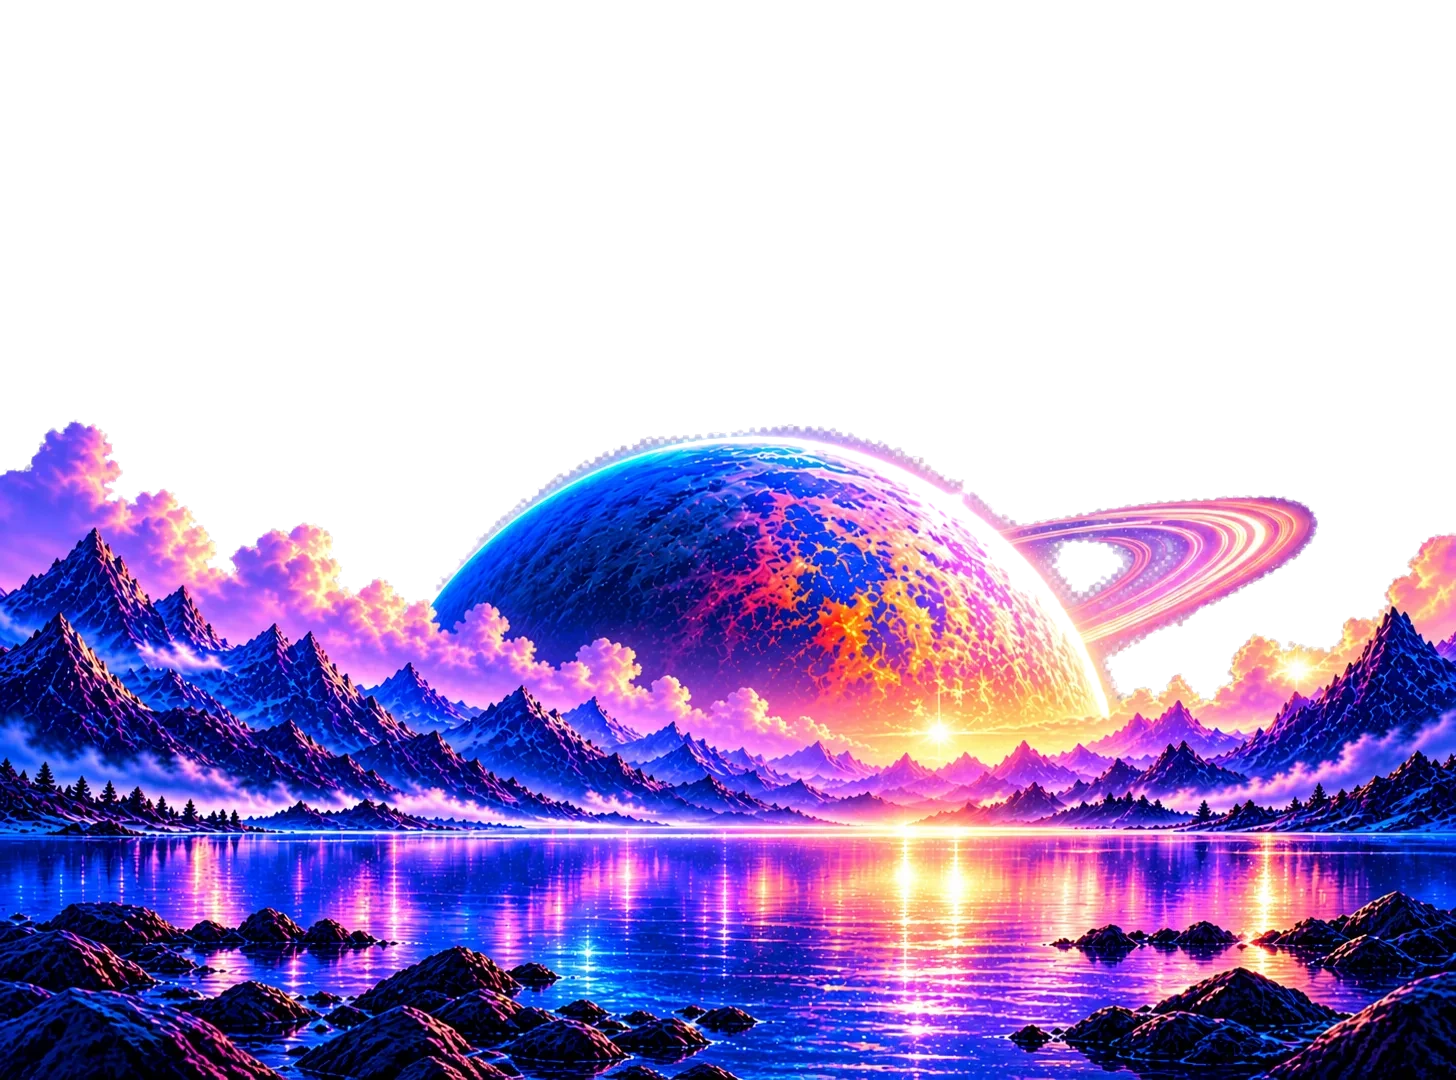
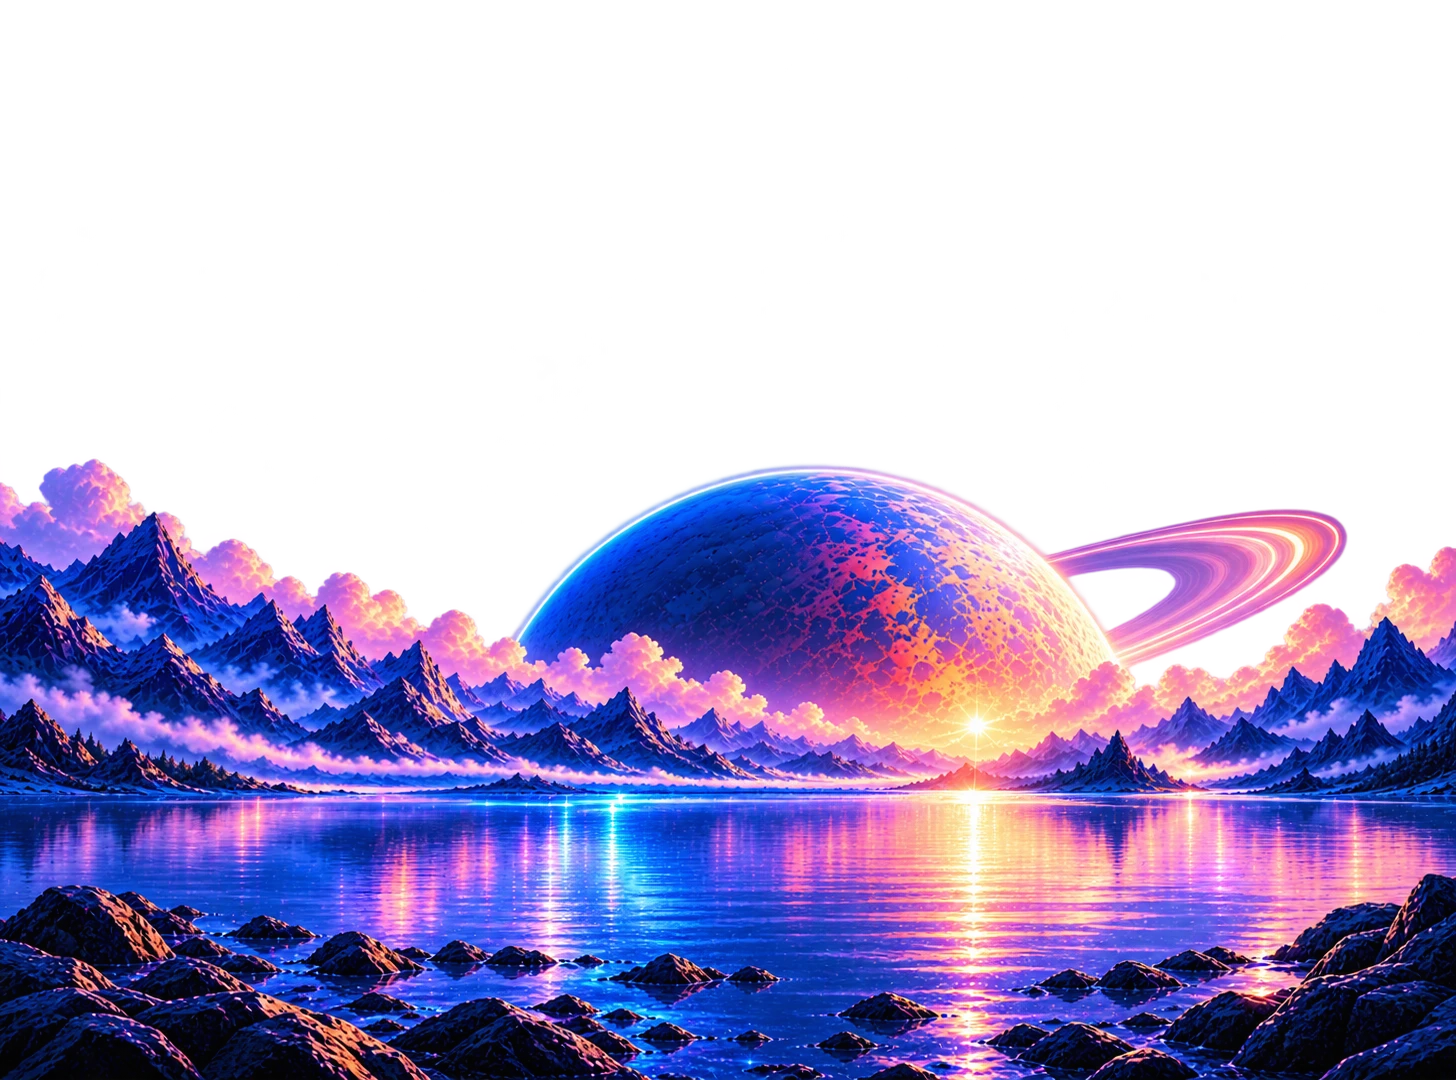
Dashboard Space: the user's new sky and transparent planet overlay
Sky covers the menu from the top; the overlay (real alpha, no keying)
is placed by its own size so the planet's top meets the banner's top.
Pixel background-position (St has no "center top").

diff --git a/lib/menu/layouts.js b/lib/menu/layouts.js
@@ -1021,8 +1021,8 @@ const RECENT_COLUMNS = 4;
 const FROST_BLUR = 14; // blur radius of the picture behind the cards
 const PINNED_ICON = 46;
 const SPACE_SCALE = 1.0; // Space picture width / menu width
-const SPACE_HORIZON = 0.77; // height of the lake line in the Space pictures
-const SPACE_PLANET = 0.40; // height of the planet's top in the overlay
+const SPACE_HORIZON = 0.73; // height of the lake line in the overlay
+const SPACE_PLANET = 0.43; // height of the planet's top in the overlay
 const SPACE_PLANET_GAP = 6; // planet top below the banner's top edge
 const SPACE_TOP = 70; // picture top before the banner is placed
 const HERO_FOCUS = [0.5, 0.58]; // part of the picture the banner centres on
@@ -1710,6 +1710,7 @@ class DashboardLayout extends BaseLayout {
             return;
         this._pictureUri = picture ? GLib.filename_to_uri(picture, null) : null;
         this._overlayUri = space ? GLib.filename_to_uri(D.spaceOverlay(this.ctx.ext.path), null) : null;
+        this._overlaySize = space ? D.pictureSize(D.spaceOverlay(this.ctx.ext.path)) : null;
         this._pictureSize = picture ? D.pictureSize(picture) : null;
         this._syncPicture();
     }
@@ -1817,12 +1818,21 @@ class DashboardLayout extends BaseLayout {
     _placeSpace() {
         // The menu width (the picture's own width is not final before layout).
         const pw = this.settings.get_int('menu-width') || DashboardLayout.size[0];
+        const radius = `border-radius: ${this._radius()};`;
+        // Sky: covers the whole menu, from the top, centred (St takes no "center top").
+        const [sw, sh] = this._pictureSize;
+        const skyScale = Math.max(pw / sw, MENU_HEIGHT / sh);
+        const [kw, kh] = [Math.ceil(sw * skyScale), Math.ceil(sh * skyScale)];
+        this._frost.set_style(`background-image: url("${this._pictureUri}"); background-size: ${kw}px ${kh}px; ` +
+            `background-position: ${Math.round((pw - kw) / 2)}px 0px; ${radius}`);
+        if (!this._overlay)
+            return;
+        // Overlay, as in the design: the planet's top touches the banner's
+        // top edge, so its dome fills the banner, the side mountains rise
+        // behind the last pinned row and the lake runs behind the action row.
+        const size = this._overlaySize ?? this._pictureSize;
         const w = Math.round(pw * SPACE_SCALE);
-        const h = Math.round(w * this._pictureSize[1] / this._pictureSize[0]);
-        // As in the design: the planet's top (in the overlay) touches the
-        // banner's top edge, so its dome fills the banner, the side mountains
-        // rise behind the last pinned row and the lake runs behind the action
-        // row. The sky picture starts at the top of the menu.
+        const h = Math.round(w * size[1] / size[0]);
         let y = SPACE_TOP;
         if (this._hero.mapped && this._hero.visible) {
             const [, py] = this._picture.get_transformed_position();
@@ -1831,16 +1841,11 @@ class DashboardLayout extends BaseLayout {
             if (!Number.isFinite(y))
                 y = SPACE_TOP;
         }
-        const x = Math.round((pw - w) / 2);
-        const place = (uri, top) => `background-image: url("${uri}"); background-size: ${w}px ${h}px; ` +
-            `background-position: ${x}px ${top}px; border-radius: ${this._radius()};`;
-        this._frost.set_style(place(this._pictureUri, Math.min(0, y)));
-        if (this._overlay) {
-            this._overlay.set_style(place(this._overlayUri, y));
-            // Sizes are only asked for once the menu is on the stage (St would complain).
-            const ph = this._picture.get_stage() ? this._picture.height : MENU_HEIGHT;
-            this._spaceStars.setHorizon((y + SPACE_HORIZON * h) / (ph || MENU_HEIGHT));
-        }
+        this._overlay.set_style(`background-image: url("${this._overlayUri}"); background-size: ${w}px ${h}px; ` +
+            `background-position: ${Math.round((pw - w) / 2)}px ${y}px; ${radius}`);
+        // Sizes are only asked for once the menu is on the stage (St would complain).
+        const ph = this._picture.get_stage() ? this._picture.height : MENU_HEIGHT;
+        this._spaceStars.setHorizon((y + SPACE_HORIZON * h) / (ph || MENU_HEIGHT));
     }
 
     _queueHeroPicture() {
@@ -1870,9 +1875,11 @@ class DashboardLayout extends BaseLayout {
                 continue;
             }
             // Same "cover" fit as the frosted picture.
+            const fromOverlay = !!this._overlayUri && box === this._footerBox;
+            const src = fromOverlay && this._overlaySize ? this._overlaySize : size;
             const [pw, ph] = [this._picture.width, this._picture.height];
-            const scale = Math.max(pw / size[0], ph / size[1]);
-            const [w, h] = [Math.ceil(size[0] * scale), Math.ceil(size[1] * scale)];
+            const scale = Math.max(pw / src[0], ph / src[1]);
+            const [w, h] = [Math.ceil(src[0] * scale), Math.ceil(src[1] * scale)];
             const [bw, bh] = [box.width, box.height];
             const clamp = (v, min) => Math.round(Math.max(min, Math.min(0, v)));
             const x = clamp(bw / 2 - focus[0] * w, bw - w);
